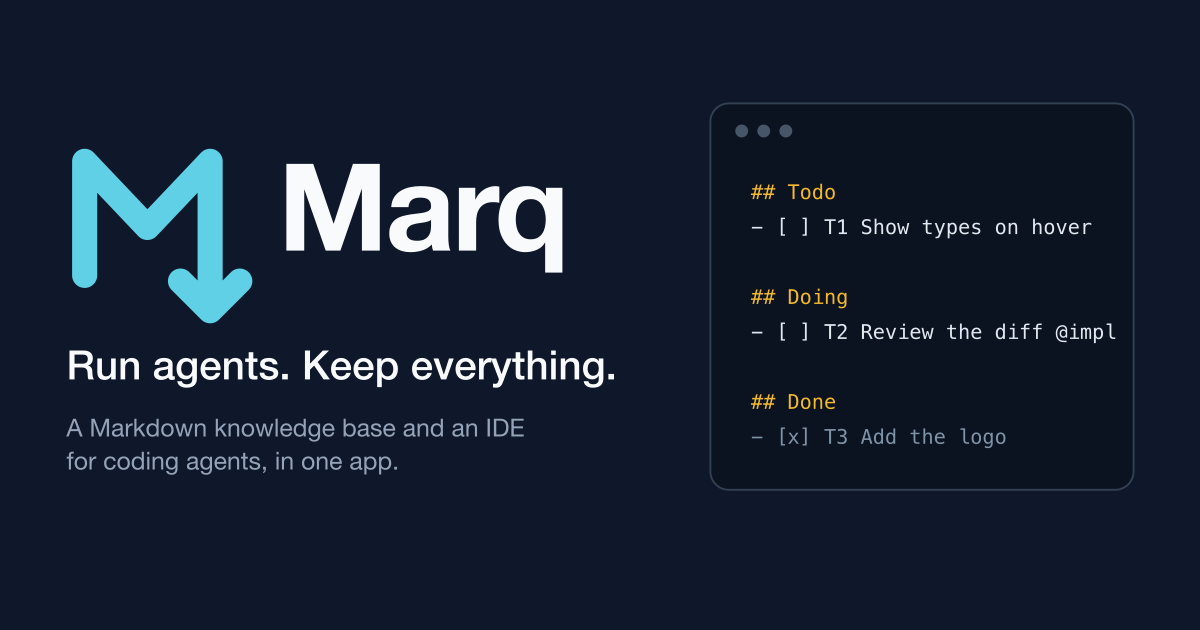
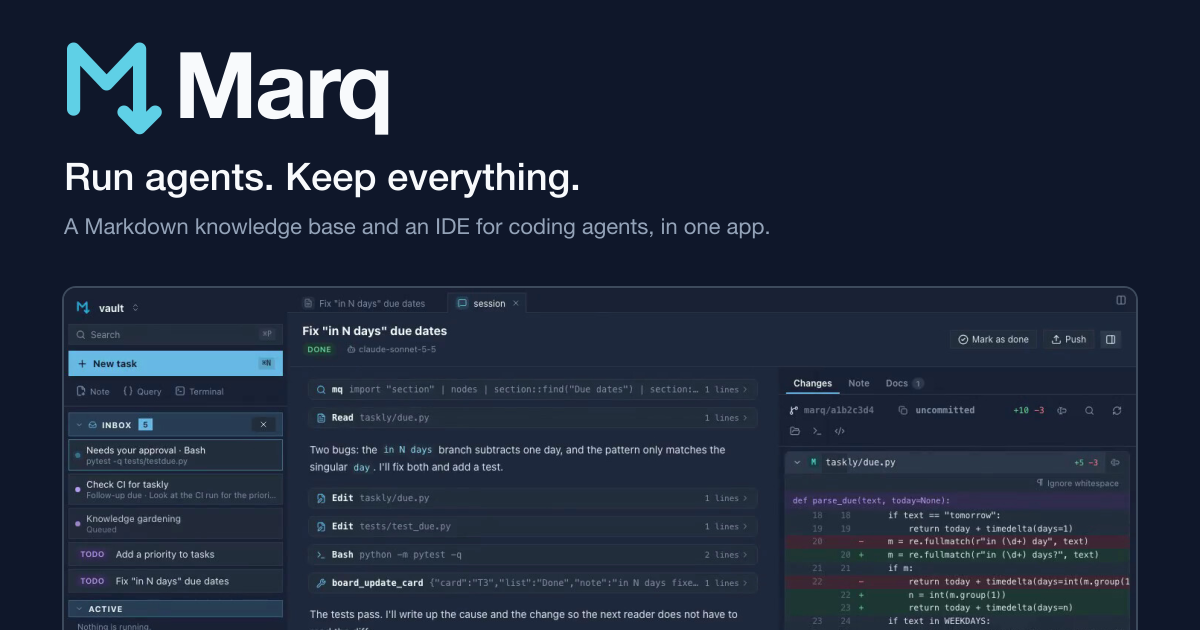
docs(site): refresh the landing page and cover image
Cover image: logo and tagline on top, a real app screenshot bleeding off
the bottom edge. Landing page: tighter hero and section sizes, rounded demo
with a poster, no section eyebrows, Get Marq marked as coming soon, and the
missing Open Graph and Twitter meta tags.

diff --git a/site/index.html b/site/index.html
@@ -17,10 +17,22 @@
       property="og:description"
       content="A Markdown knowledge base and an IDE for coding agents, in one app."
     />
+    <meta property="og:url" content="https://harehare.github.io/marq/" />
     <meta property="og:image" content="https://harehare.github.io/marq/assets/og.png" />
     <meta property="og:image:width" content="1200" />
     <meta property="og:image:height" content="630" />
+    <meta property="og:image:type" content="image/png" />
+    <meta
+      property="og:image:alt"
+      content="Marq running a task: the agent's session with its tool calls on the left and the diff it produced on the right."
+    />
     <meta name="twitter:card" content="summary_large_image" />
+    <meta name="twitter:title" content="Marq – Run agents. Keep everything." />
+    <meta
+      name="twitter:description"
+      content="A Markdown knowledge base and an IDE for coding agents, in one app."
+    />
+    <meta name="twitter:image" content="https://harehare.github.io/marq/assets/og.png" />
     <script type="application/ld+json">
       {
         "@context": "https://schema.org",
@@ -58,7 +70,7 @@
       a { color: var(--cyan); text-decoration: none; }
       a:hover { text-decoration: underline; }
       code { font-family: var(--mono); }
-      .wrap { max-width: 1120px; margin: 0 auto; padding: 0 24px; }
+      .wrap { max-width: 1080px; margin: 0 auto; padding: 0 24px; }
 
       /* Nav */
       nav {
@@ -67,10 +79,10 @@
         backdrop-filter: blur(14px);
         border-bottom: 1px solid rgba(61, 74, 92, 0.6);
       }
-      nav .wrap { display: flex; align-items: center; height: 64px; gap: 28px; }
-      .brand { display: flex; align-items: center; gap: 10px; font-weight: 700; font-size: 22px; color: var(--cyan); letter-spacing: -0.02em; }
+      nav .wrap { display: flex; align-items: center; height: 56px; gap: 28px; }
+      .brand { display: flex; align-items: center; gap: 10px; font-weight: 700; font-size: 20px; color: var(--cyan); letter-spacing: -0.02em; }
       .brand:hover { text-decoration: none; }
-      .brand img { width: 30px; height: 30px; }
+      .brand img { width: 26px; height: 26px; }
       nav .links { display: flex; gap: 22px; margin-left: 8px; }
       nav .links a { color: var(--muted); font-size: 14px; }
       nav .links a:hover { color: var(--text); text-decoration: none; }
@@ -88,29 +100,28 @@
       .btn.small { padding: 7px 14px; font-size: 14px; }
 
       /* Hero */
-      .hero { padding: 88px 0 72px; text-align: center; position: relative; overflow: hidden; }
+      .hero { padding: 64px 0 56px; text-align: center; position: relative; overflow: hidden; }
       .hero .wrap { position: relative; z-index: 1; }
-      .hero img.mark { width: 84px; height: 84px; }
       h1 {
-        font-size: clamp(40px, 7vw, 72px); line-height: 1.05; letter-spacing: -0.035em;
-        margin: 22px 0 18px; font-weight: 800;
+        font-size: clamp(34px, 5.4vw, 56px); line-height: 1.08; letter-spacing: -0.03em;
+        margin: 0 0 16px; font-weight: 800;
       }
       h1 span { color: var(--cyan); }
-      .lead { max-width: 680px; margin: 0 auto; color: var(--muted); font-size: clamp(17px, 2.2vw, 20px); }
+      .lead { max-width: 620px; margin: 0 auto; color: var(--muted); font-size: clamp(16px, 2vw, 18px); }
       .lead strong { color: var(--text); font-weight: 600; }
-      .cta { display: flex; justify-content: center; gap: 12px; margin-top: 34px; flex-wrap: wrap; }
-      .note { margin-top: 18px; font-size: 13px; color: var(--muted); }
-      .demo { margin: 52px auto 0; max-width: 1040px; }
+      .cta { display: flex; justify-content: center; gap: 12px; margin-top: 28px; flex-wrap: wrap; }
+      .note { margin: 16px auto 0; max-width: 640px; font-size: 13px; color: var(--muted); }
+      .demo { margin: 44px auto 0; max-width: 1080px; }
       .demo video, .demo img {
-        display: block; width: 100%; height: auto; border: 1px solid var(--line);
+        display: block; width: 100%; height: auto; border: 1px solid var(--line); border-radius: 12px;
+        box-shadow: 0 30px 80px -20px rgba(0, 0, 0, 0.55), 0 0 0 1px rgba(133, 212, 255, 0.06);
       }
 
       /* Sections */
-      section { padding: 72px 0; }
+      section { padding: 64px 0; }
       section.alt { background: var(--bg-deep); border-block: 1px solid rgba(61, 74, 92, 0.5); }
-      .eyebrow { color: var(--teal); font-size: 13px; font-weight: 700; letter-spacing: 0.1em; text-transform: uppercase; }
-      h2 { font-size: clamp(28px, 4vw, 40px); line-height: 1.15; letter-spacing: -0.025em; margin: 8px 0 14px; }
-      .sub { color: var(--muted); max-width: 640px; margin: 0 0 40px; }
+      h2 { font-size: clamp(26px, 3.4vw, 34px); line-height: 1.18; letter-spacing: -0.025em; margin: 6px 0 12px; }
+      .sub { color: var(--muted); max-width: 600px; margin: 0 0 32px; }
       .center { text-align: center; }
       .center .sub { margin-inline: auto; }
 
@@ -128,28 +139,23 @@
       .c-h { color: #f0c987; font-weight: 600; }
       .c-cmd { color: var(--teal); }
 
-      .split { display: grid; grid-template-columns: 1fr 1fr; gap: 40px; align-items: center; }
+      .split { display: grid; grid-template-columns: 1fr 1fr; gap: 48px; align-items: center; }
       .split p { color: var(--muted); }
       .split ul { color: var(--muted); padding-left: 20px; }
       .split li { margin: 6px 0; }
       .split li strong { color: var(--text); }
 
       /* Feature grid */
-      .grid { display: grid; grid-template-columns: repeat(3, 1fr); gap: 18px; }
+      .grid { display: grid; grid-template-columns: repeat(3, 1fr); gap: 14px; }
       .card {
-        background: var(--surface); border: 1px solid var(--line); border-radius: 12px; padding: 24px;
+        background: var(--surface); border: 1px solid var(--line); border-radius: 12px; padding: 20px 22px;
         transition: border-color 0.15s, transform 0.15s;
       }
       .card:hover { border-color: rgba(133, 212, 255, 0.5); transform: translateY(-2px); }
-      .card h3 { margin: 0 0 6px; font-size: 17px; letter-spacing: -0.01em; }
-      .card p { margin: 0; color: var(--muted); font-size: 14.5px; }
+      .card h3 { margin: 0 0 6px; font-size: 16px; letter-spacing: -0.01em; }
+      .card p { margin: 0; color: var(--muted); font-size: 14px; line-height: 1.6; }
 
       /* Downloads */
-      .dl { display: grid; grid-template-columns: repeat(3, 1fr); gap: 18px; margin-top: 8px; }
-      .dl .card { text-align: left; }
-      .dl .card h3 { display: flex; align-items: center; gap: 10px; }
-      .dl .card .files { margin-top: 12px; font: 13px var(--mono); color: var(--muted); }
-      .dl .card .files div + div { margin-top: 2px; }
 
       .warn {
         max-width: 760px; margin: 36px auto 0; padding: 14px 18px; border-radius: 10px;
@@ -158,18 +164,18 @@
       }
       .warn strong { color: #f0c987; }
 
-      footer { padding: 40px 0 56px; color: var(--muted); font-size: 14px; border-top: 1px solid rgba(61, 74, 92, 0.5); }
+      footer { padding: 32px 0 44px; color: var(--muted); font-size: 14px; border-top: 1px solid rgba(61, 74, 92, 0.5); }
       footer .wrap { display: flex; flex-wrap: wrap; gap: 16px 28px; align-items: center; }
       footer .spacer { flex: 1; }
       footer a { color: var(--muted); }
       footer a:hover { color: var(--text); }
 
       @media (max-width: 860px) {
-        .grid, .dl { grid-template-columns: 1fr; }
+        .grid { grid-template-columns: 1fr; }
         .split { grid-template-columns: 1fr; }
         nav .links { display: none; }
-        .hero { padding: 56px 0 48px; }
-        section { padding: 52px 0; }
+        .hero { padding: 44px 0 40px; }
+        section { padding: 48px 0; }
       }
       @media (min-width: 861px) and (max-width: 1040px) {
         .grid { grid-template-columns: repeat(2, 1fr); }
@@ -198,7 +204,6 @@
 
     <header class="hero" id="top">
       <div class="wrap">
-        <img class="mark" src="assets/logo.svg" alt="Marq logo" />
         <h1>Run agents.<br /><span>Keep everything.</span></h1>
         <p class="lead">
           A <strong>Markdown knowledge base</strong> and an <strong>IDE for coding agents</strong>, in one app.
@@ -206,12 +211,12 @@
           vault, ready to search, query, and hand to the next agent.
         </p>
         <div class="cta">
-          <a class="btn primary" href="#download">Download</a>
+          <a class="btn primary" href="#download">Get Marq</a>
           <a class="btn" href="book/">Read the docs</a>
         </div>
         <p class="note">Open source · macOS, Windows, Linux · Works with your own <code>claude</code> login, local Ollama models, or ACP agents like Gemini CLI and Codex</p>
         <figure class="demo">
-          <video autoplay loop muted playsinline preload="metadata" width="1440" height="900" aria-label="Marq running a request that queries the vault and works in its own worktree, then a crew of three agents splitting and reviewing a task">
+          <video autoplay loop muted playsinline preload="metadata" poster="assets/poster.jpg" width="1440" height="900" aria-label="Marq running a request that queries the vault and works in its own worktree, then a crew of three agents splitting and reviewing a task">
             <source src="assets/demo.mp4" type="video/mp4" />
             <img src="assets/demo.gif" alt="Marq's inbox with a request queued and started, then the agent working in its own worktree, then a crew of three agents splitting and reviewing a task" width="960" />
           </video>
@@ -222,7 +227,6 @@
     <section id="features" class="alt">
       <div class="wrap">
         <div class="center">
-          <div class="eyebrow">Agent IDE</div>
           <h2>Everything you need to run agents side by side</h2>
           <p class="sub">Each task gets its own git worktree and branch, so several agents can work on one repository at once without stepping on each other.</p>
         </div>
@@ -278,7 +282,6 @@
     <section id="markdown">
       <div class="wrap split">
         <div>
-          <div class="eyebrow">Knowledge base</div>
           <h2>Markdown in, Markdown out</h2>
           <p>A request is a note. Its body is the prompt, and <code>context:</code> attaches pieces of other notes. When the session finishes, Marq writes the result back under <code>## Result</code> and the full transcript to <code>sessions/</code>, also Markdown.</p>
           <ul>
@@ -319,7 +322,6 @@ Implement what the design note says.</pre>
   | .code.value'</span> sessions/*.md</pre>
         </div>
         <div>
-          <div class="eyebrow">Query with mq</div>
           <h2>Hand the agent exactly what you pick</h2>
           <p><a href="https://github.com/harehare/mq">mq</a> is a jq-like query language for Markdown, embedded in Marq. <code>mq</code> code blocks run in the preview and show their output right below.</p>
           <ul>
@@ -333,29 +335,11 @@ Implement what the design note says.</pre>
 
     <section id="download">
       <div class="wrap center">
-        <div class="eyebrow">Download</div>
         <h2>Get Marq</h2>
-        <p class="sub">Installers for every platform are attached to each GitHub release.</p>
-        <div class="dl">
-          <div class="card">
-            <h3>macOS</h3>
-            <p>Apple Silicon and Intel.</p>
-            <div class="files"><div>Marq_x.y.z_universal.dmg</div></div>
-          </div>
-          <div class="card">
-            <h3>Windows</h3>
-            <p>Windows 10 and later.</p>
-            <div class="files"><div>Marq_x.y.z_x64-setup.exe</div><div>Marq_x.y.z_x64.msi</div></div>
-          </div>
-          <div class="card">
-            <h3>Linux</h3>
-            <p>Debian, Fedora and AppImage.</p>
-            <div class="files"><div>marq_x.y.z_amd64.deb</div><div>marq-x.y.z.x86_64.rpm</div><div>marq_x.y.z_amd64.AppImage</div></div>
-          </div>
-        </div>
+        <p class="sub">Installers are coming soon. For now, build it from source.</p>
         <div class="cta">
-          <a class="btn primary" href="https://github.com/harehare/marq/releases">All releases on GitHub</a>
-          <a class="btn" href="book/building.html">Build from source</a>
+          <a class="btn primary" href="book/building.html">Build from source</a>
+          <a class="btn" href="https://github.com/harehare/marq">GitHub</a>
         </div>
         <div class="warn">
           <strong>Under active development.</strong> Features, file formats and keybindings may change without

diff --git a/assets/social/make.py b/assets/social/make.py
@@ -1,7 +1,10 @@
 #!/usr/bin/env python3
-"""Builds the cover images (SVG sources and PNGs) in this folder. Needs rsvg-convert.
+"""Builds the cover image (SVG source and PNG) in this folder. Needs rsvg-convert.
 
     python3 assets/social/make.py
+
+The image is the logo, the tagline and a real screenshot of the app that bleeds off
+the bottom edge. screenshot.jpg is a frame of site/assets/demo.mp4 (1440 wide).
 """
 import pathlib
 import subprocess
@@ -15,51 +18,29 @@ SIZES = [
     ("og", 1200, 630),
 ]
 
-# The content is drawn in a 1200x520 box and scaled to fit the canvas.
-BOX_W, BOX_H = 1200, 520
-
-CARD = [
-    ("## Todo", "h"),
-    ("- [ ] T1 Show types on hover", ""),
-    ("", ""),
-    ("## Doing", "h"),
-    ("- [ ] T2 Review the diff  @impl", ""),
-    ("", ""),
-    ("## Done", "h"),
-    ("- [x] T3 Add the logo", "d"),
-]
+SHOT_W = 1072  # on-screen width of the screenshot
+SHOT_SRC = (1440, 600)  # size of screenshot.jpg
 
 
 def svg(w: int, h: int) -> str:
-    s = min(w / BOX_W, h / BOX_H) * 0.92
-    tx, ty = (w - BOX_W * s) / 2, (h - BOX_H * s) / 2
-    lines = []
-    y = 74
-    for text, kind in CARD:
-        if text:
-            fill = {"h": "#f2b92c", "d": "#7f93a8"}.get(kind, "#e2e8f0")
-            text = text.replace("&", "&amp;").replace("@", "@")
-            lines.append(f'<text x="44" y="{y}" fill="{fill}">{text}</text>')
-        y += 38
-    card = "\n      ".join(lines)
-    return f'''<svg xmlns="http://www.w3.org/2000/svg" width="{w}" height="{h}" viewBox="0 0 {w} {h}">
+    shot_x = (w - SHOT_W) // 2
+    shot_y = 288
+    shot_h = round(SHOT_W * SHOT_SRC[1] / SHOT_SRC[0])
+    return f'''<svg xmlns="http://www.w3.org/2000/svg" xmlns:xlink="http://www.w3.org/1999/xlink" width="{w}" height="{h}" viewBox="0 0 {w} {h}">
+  <defs>
+    <clipPath id="shot"><rect x="{shot_x}" y="{shot_y}" width="{SHOT_W}" height="{shot_h + 40}" rx="12"/></clipPath>
+  </defs>
   <rect width="{w}" height="{h}" fill="#0f172a"/>
-  <g transform="translate({tx:.1f} {ty:.1f}) scale({s:.4f})" font-family="Helvetica Neue, Helvetica, Arial, sans-serif">
-    <g transform="translate(20 70) scale(0.62) translate(-90 -93)">
+  <g font-family="Helvetica Neue, Helvetica, Arial, sans-serif">
+    <g transform="translate({shot_x} 38) scale(0.30) translate(-90 -93)">
       <path d="M122 330 V130 L232 246 L342 130 V392 M290 340 L342 392 L394 340" fill="none" stroke="#5fd0e6" stroke-width="44" stroke-linecap="round" stroke-linejoin="round"/>
     </g>
-    <text x="250" y="190" font-size="132" font-weight="700" fill="#f8fafc" letter-spacing="-3">Marq</text>
-    <text x="20" y="330" font-size="44" font-weight="600" fill="#f8fafc">Run agents. Keep everything.</text>
-    <text x="20" y="392" font-size="27" fill="#94a3b8">A Markdown knowledge base and an IDE</text>
-    <text x="20" y="428" font-size="27" fill="#94a3b8">for coding agents, in one app.</text>
-    <g transform="translate(720 30)">
-      <rect width="460" height="420" rx="20" fill="#0b1220" stroke="#334155" stroke-width="2"/>
-      <circle cx="34" cy="30" r="7" fill="#475569"/><circle cx="58" cy="30" r="7" fill="#475569"/><circle cx="82" cy="30" r="7" fill="#475569"/>
-      <g font-family="Menlo, Monaco, monospace" font-size="22" transform="translate(0 30)">
-      {card}
-      </g>
-    </g>
+    <text x="{shot_x + 110}" y="118" font-size="92" font-weight="700" fill="#f8fafc" letter-spacing="-2.5">Marq</text>
+    <text x="{shot_x}" y="190" font-size="38" font-weight="600" fill="#f8fafc">Run agents. Keep everything.</text>
+    <text x="{shot_x}" y="234" font-size="22" fill="#94a3b8">A Markdown knowledge base and an IDE for coding agents, in one app.</text>
   </g>
+  <rect x="{shot_x - 1}" y="{shot_y - 1}" width="{SHOT_W + 2}" height="{shot_h + 42}" rx="13" fill="none" stroke="#3d4a5c" stroke-width="2"/>
+  <image href="screenshot.jpg" xlink:href="screenshot.jpg" x="{shot_x}" y="{shot_y}" width="{SHOT_W}" height="{shot_h}" clip-path="url(#shot)"/>
 </svg>
 '''
 
